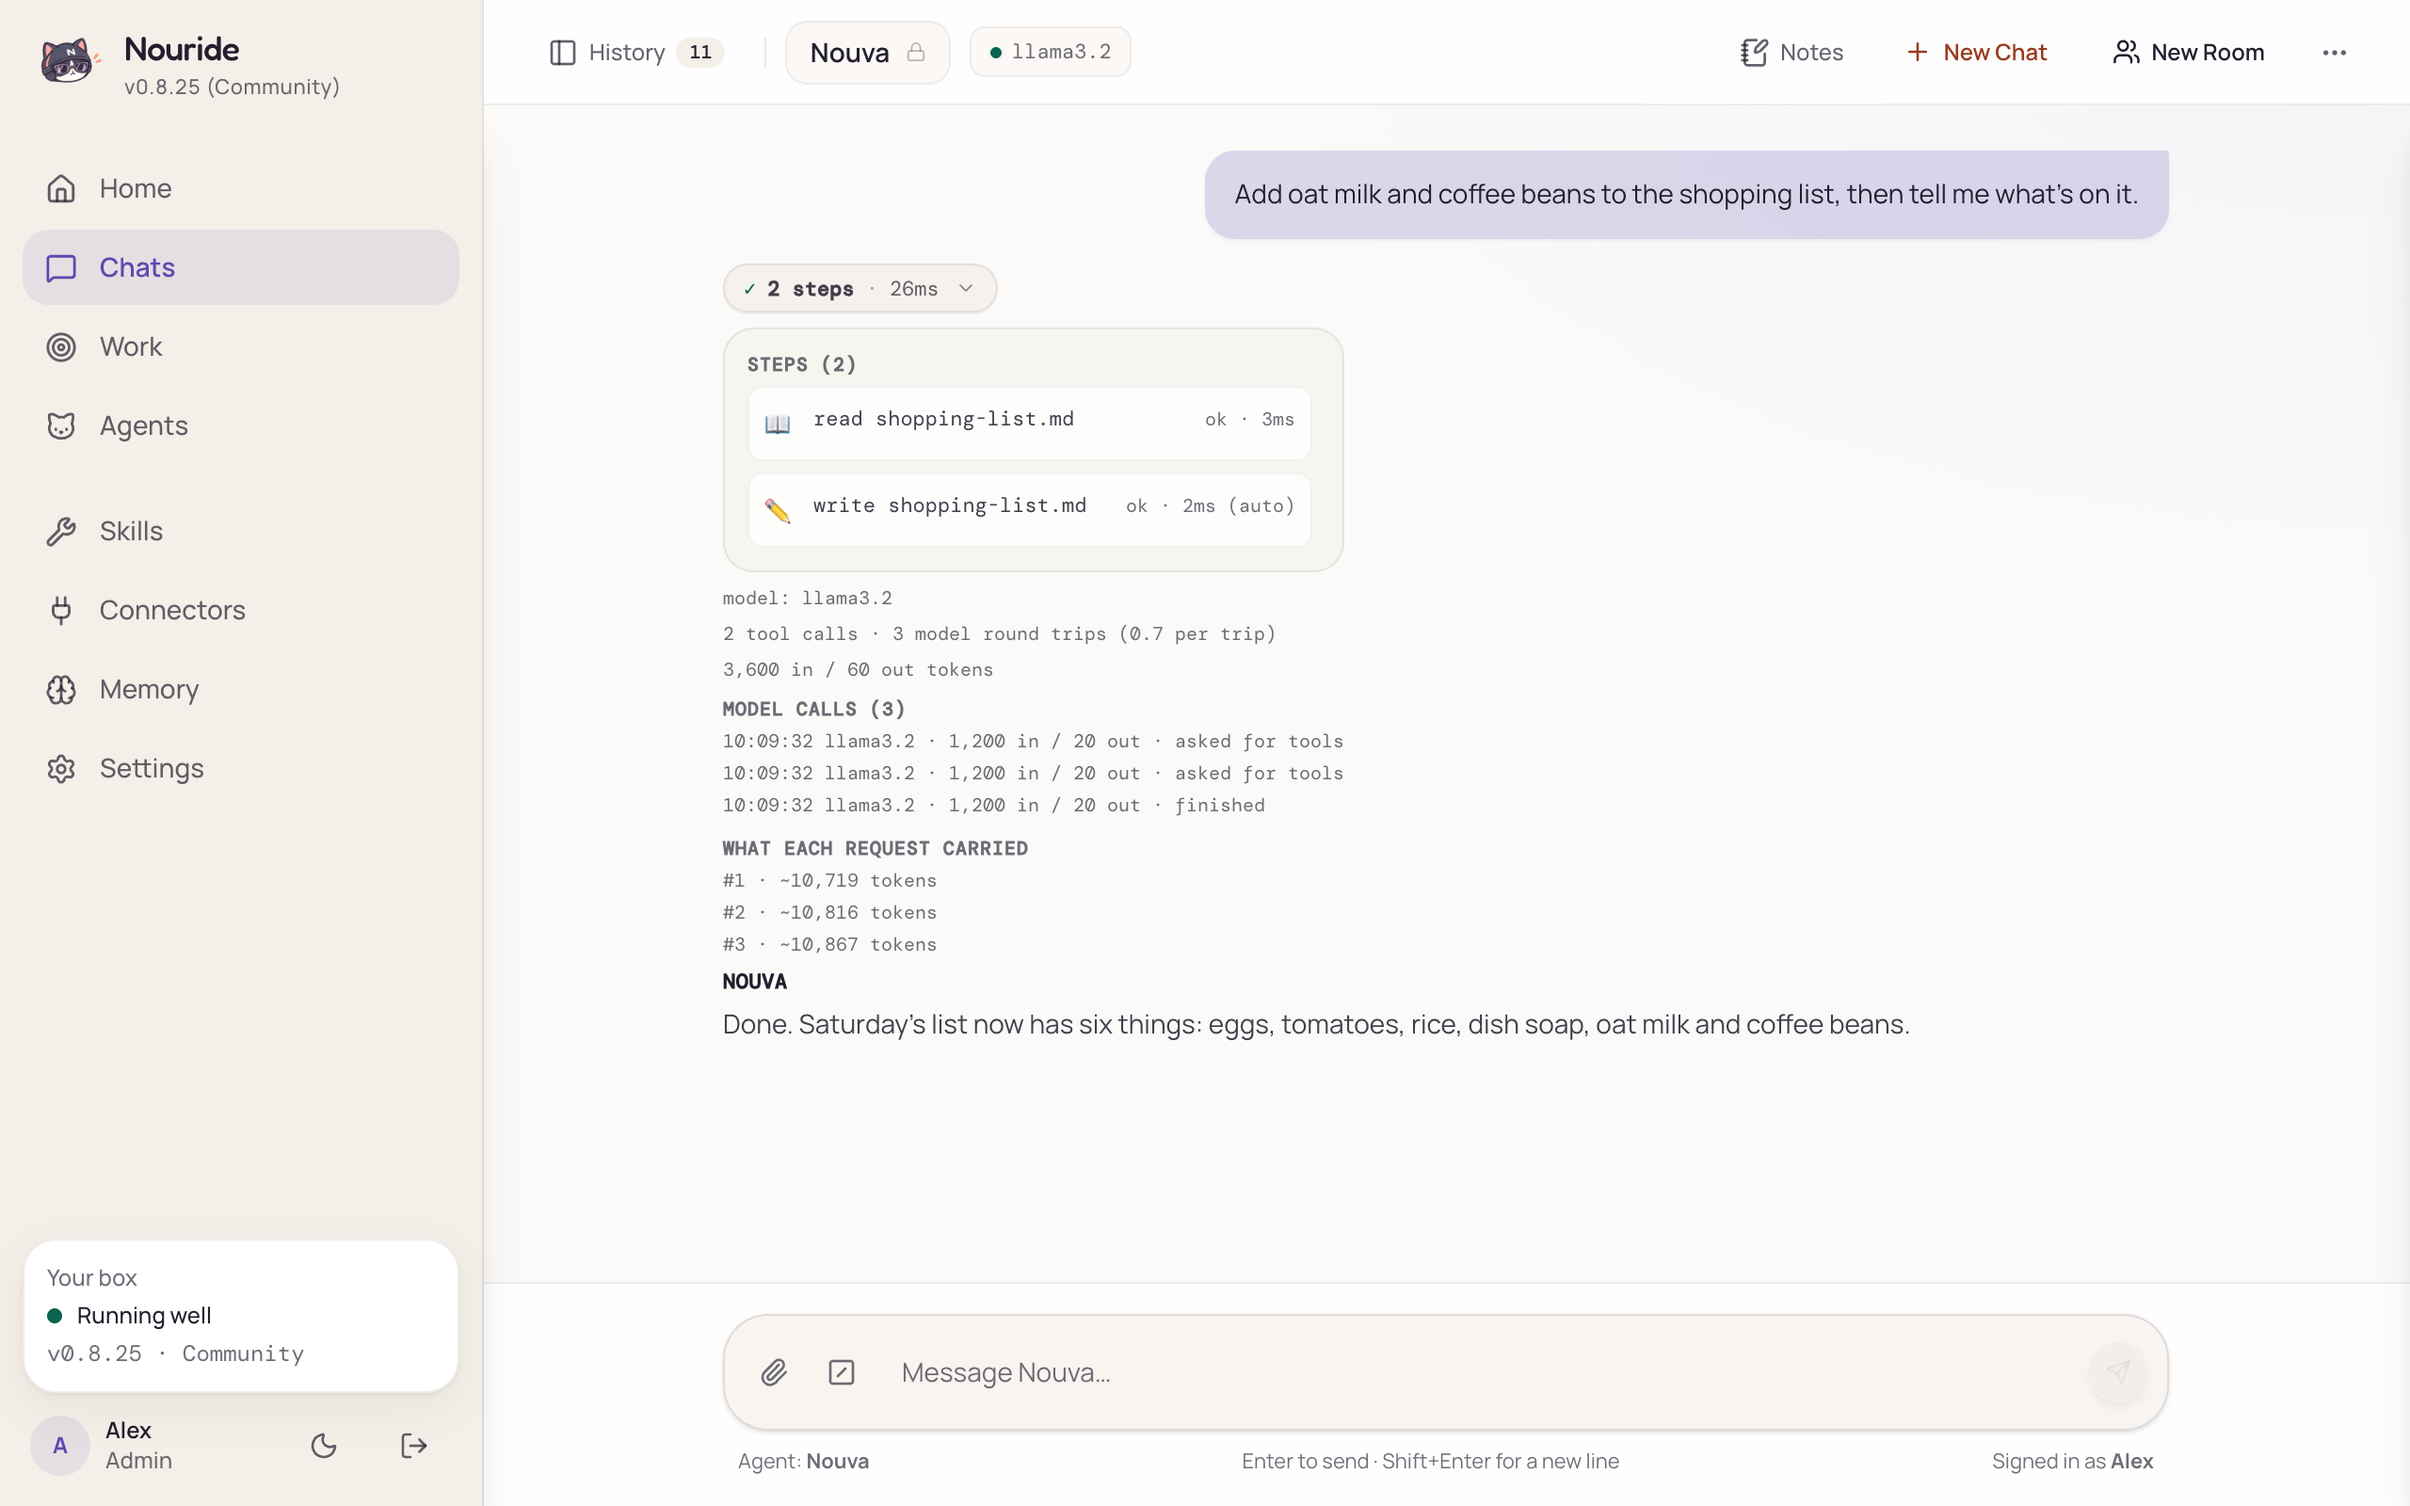
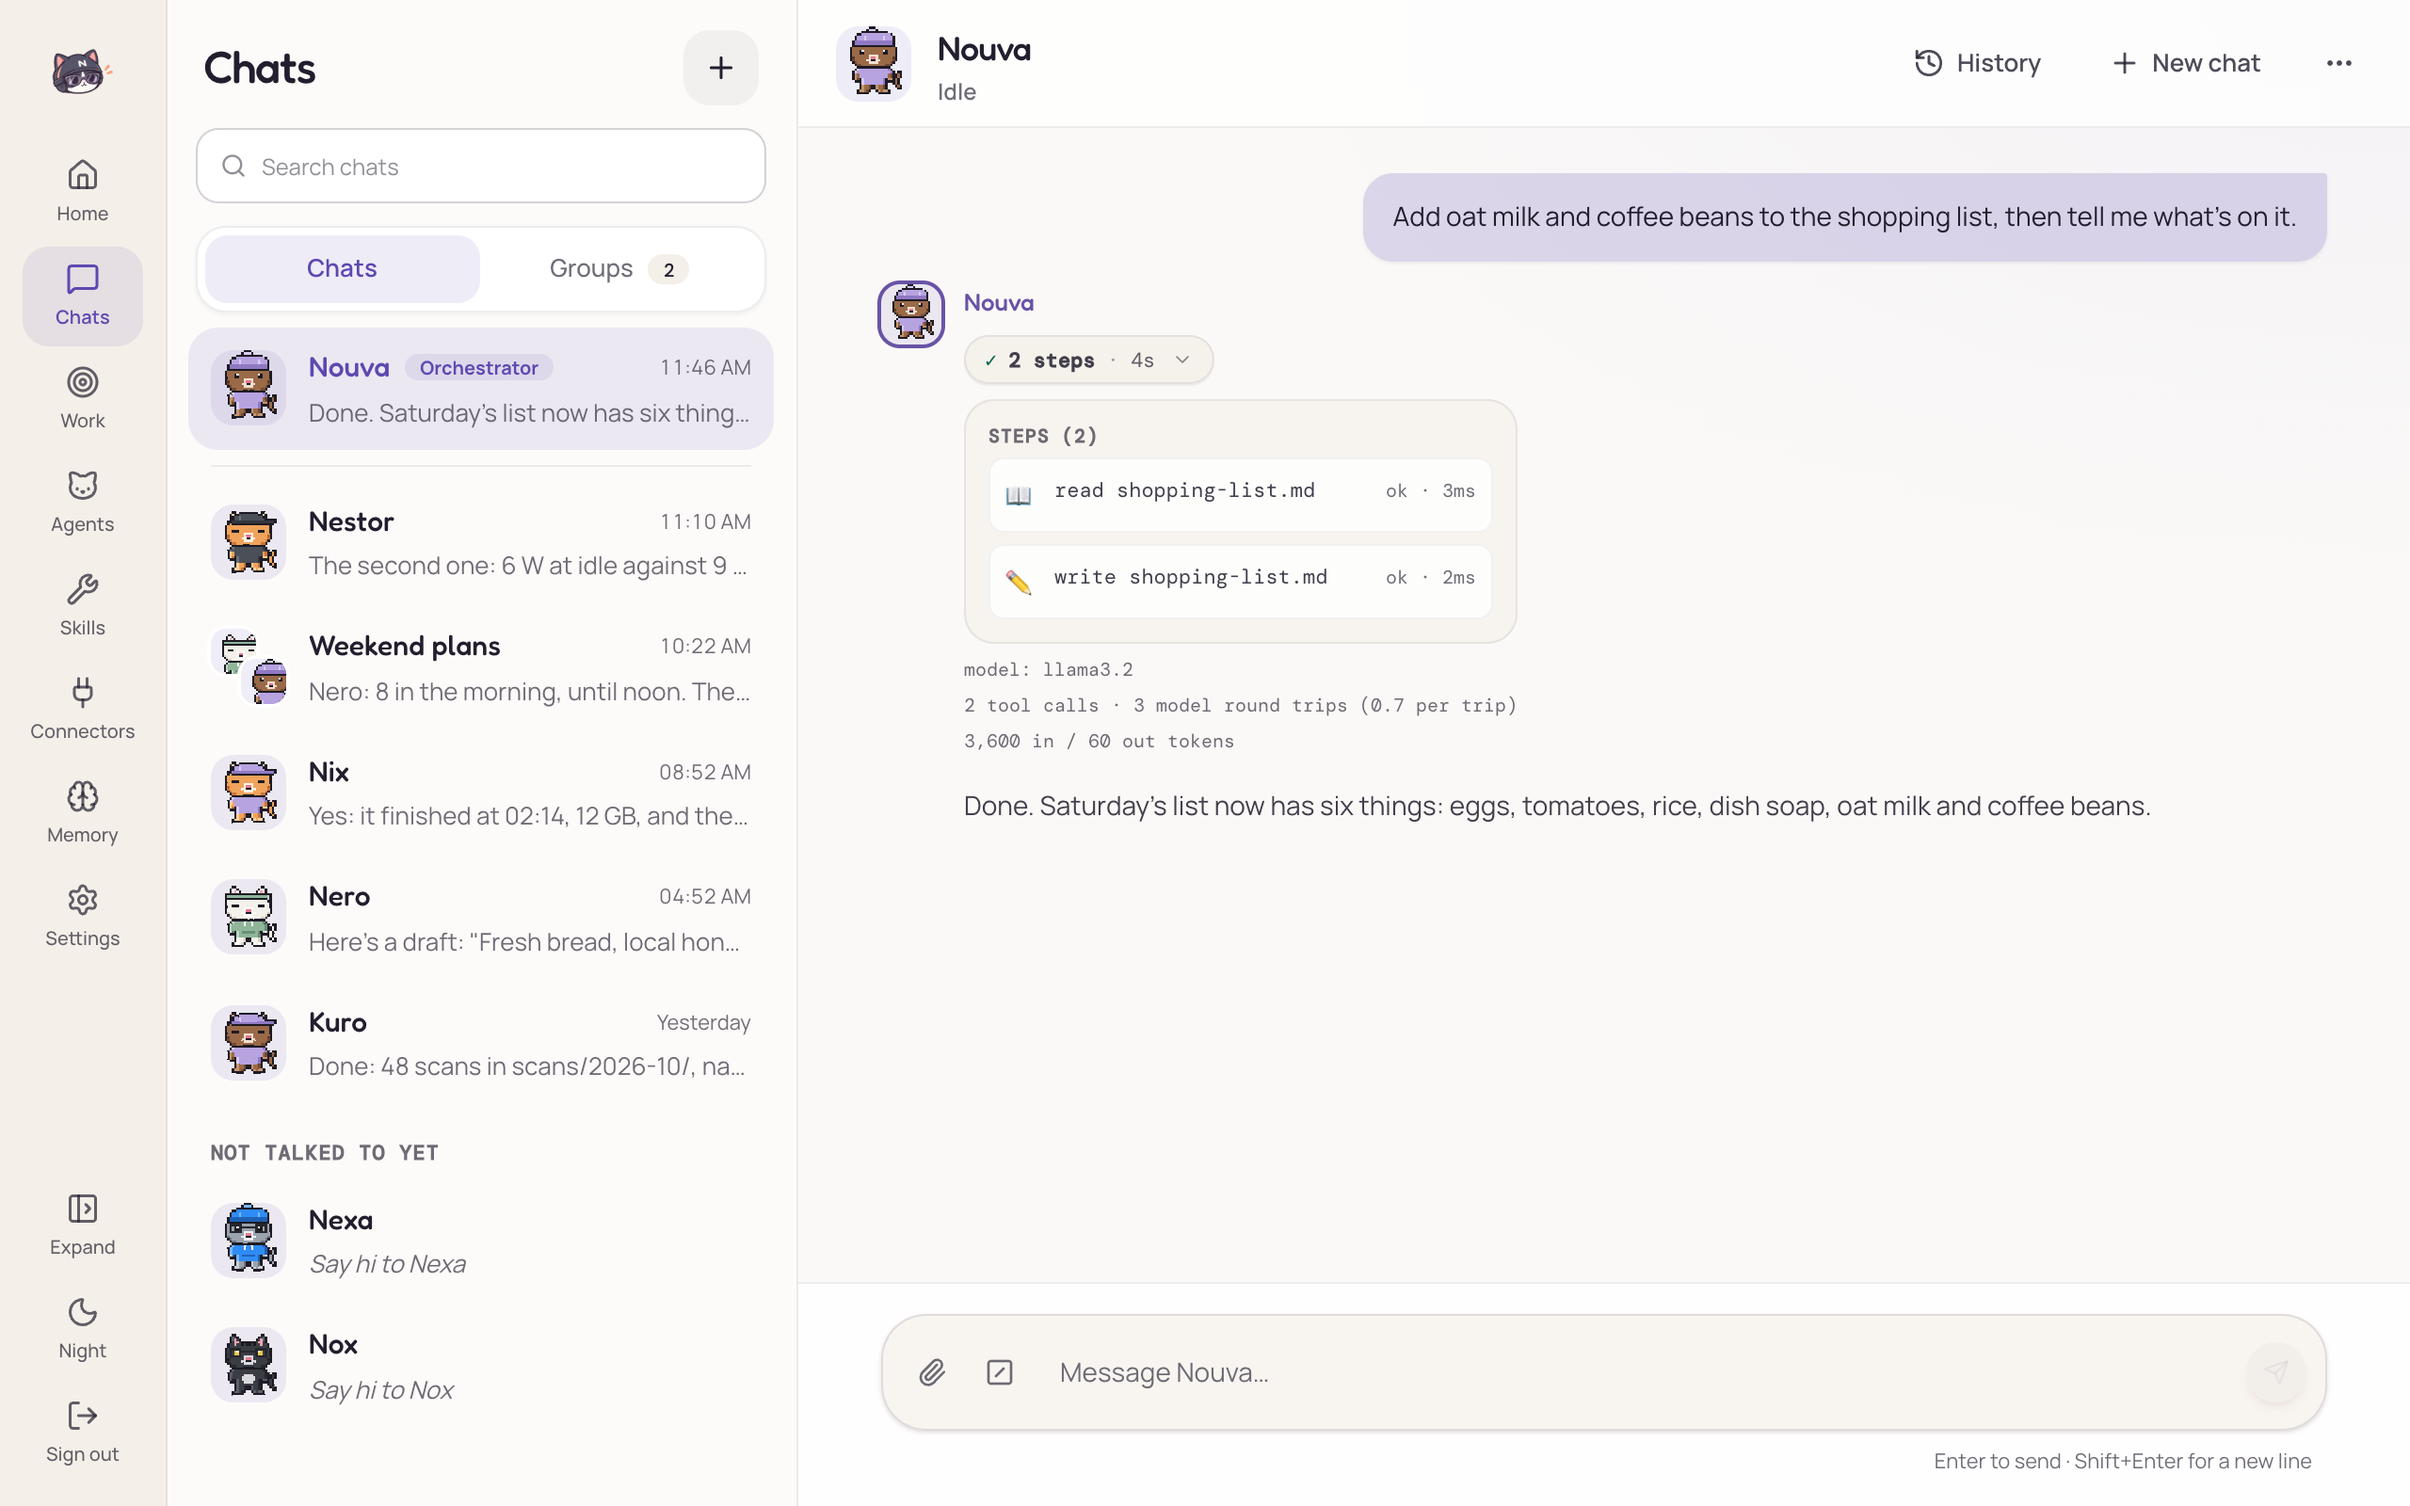
chore(release): v0.8.29
The notes for the people who install it, and the manual's chat screenshot taken again on the new chat page: an English demo (the list beside Nouva's chat, an answer's steps open), 1280x800 at 2x, light, as the one it replaces.

diff --git a/docs/releases/v0.8.29.md b/docs/releases/v0.8.29.md
@@ -1,0 +1,56 @@
+---
+min-version: 0.8.0
+---
+
+**0.8.29 updates from 0.8.0 or later.** From 0.7.x, start 0.8.0 once first:
+[Upgrading to 0.8](https://nouride.com/en/docs/deployment/upgrading-to-0-8/) has the way across.
+
+On Docker, check your configuration with the new image before you switch:
+`docker run --rm -v ./nouride:/app/.nouride ghcr.io/nouverse/nouride:0.8.29 nouride config check`, with the volume your
+compose file mounts.
+
+The first start of 0.8.29 rebuilds one table of the database, the record of what people say in groups. It backs the
+database up first and takes a moment; nothing in it is lost.
+
+### A new chat page
+
+- **One list beside the conversation.** Your orchestrator is always first, then the agents and rooms you talked to,
+  the latest first, each with its cat, the last thing said and when; agents you have not talked to yet wait at the end.
+  Opening an agent carries on its latest conversation. On a phone the list comes first and a conversation takes the
+  whole screen.
+- **Groups**, beside Chats: the groups your agents are in on Telegram, Discord and WhatsApp, one line per group however
+  many of your bots sit in it, each tagged with its app in that app's colour, and the rooms you made in the dashboard.
+  A chip per app narrows the list, **Dashboard** to your rooms, and groups quiet for two weeks fold into one line.
+  **Pin to Chats** keeps a group you read often in Chats.
+- **Anything from a chat app is read-only here**, and says so where you would type: groups and your agents' private
+  chats on Telegram, Discord and WhatsApp are answered on their own app. People there show on the left under their
+  names, and a group shows what people said even when no agent answered.
+- **History belongs to each agent**: a drawer with only that agent's conversations, its private chats on chat apps
+  among them. Each row has a menu that deletes the conversation.
+- **Each agent has its own colour and its cat beside its answers**, and a tag like `@nix` is drawn in that agent's
+  colour wherever it is written. On Discord a tag reads as the agent's name, not as the code Discord writes.
+- **An agent's steps fold into one line** while it works: what it is doing now, how many steps and for how long. Press
+  it to see them. An answer that took no steps and under a second says **instant**.
+- **The side menu folds to its icons on Chats**, to give the conversation room; **Expand** opens it again and is
+  remembered.
+- **The dashboard installs as an app.** Over HTTPS, Chrome and Edge offer **Install**; on an iPhone, Share → Add to Home
+  Screen. It opens on Chats with the mascot's head as its icon. On an iPhone you sign in once inside it.
+
+### Changes
+
+- **A room you made in the dashboard answers a message that tags nobody**: your orchestrator when it is in the room,
+  or the room's only agent. The setting that makes groups on chat apps wait for a tag (`groups_require_mention`) no
+  longer silences your own rooms; `/mention on` in a room still does. In a room your orchestrator is not in, it no
+  longer answers.
+
+### Fixes
+
+- **OpenAI's newer models work with an OpenAI API key.** GPT-5 and later refused every reply with "Unsupported
+  parameter: 'max_tokens'", and the conversation's compaction failed the same way. Nouride now sends
+  `max_completion_tokens` to OpenAI's own API, and adds the setting that says so to an existing provider on it at the
+  first start. Other OpenAI-compatible services (OpenRouter, Ollama, Nougate) are left as they were.
+- **A group's messages are no longer lost to another group's.** Telegram numbers messages per group, and a message
+  with the same number in a second group was dropped from what your agents remember of it; with two of your agents'
+  bots in one group, the second one's record missed lines too.
+- **A group opens at its newest message**, not its oldest, and an agent that answered in a group is listed among its
+  agents.

diff --git a/apps/site/src/content/docs/id/docs/manual/dashboard.md b/apps/site/src/content/docs/id/docs/manual/dashboard.md
@@ -345,7 +345,7 @@ aplikasinya sendiri. Orang-orang di sana tampil di kiri, masing-masing dengan na
 nama dari aplikasinya), dan grup menampilkan pesan orang meski tidak ada agent yang menjawab. **Pin to Chats** menyimpan
 grup yang sering kamu baca di Chats, di browser ini.
 
-![Chat dashboard dengan langkah giliran langsung](/media/dashboard-chat.png)
+![Chats: daftar di samping percakapan, jawaban dengan langkahnya terbuka](/media/dashboard-chat.png)
 
 Selagi agent bekerja, langkah-langkahnya dilipat jadi satu baris: apa yang sedang ia kerjakan, sudah berapa langkah, dan
 berapa lama. Tekan barisnya untuk membuka langkah-langkah terbaru, dengan durasi tiap langkah dan reasoning model; yang

diff --git a/apps/site/src/content/docs/en/docs/manual/dashboard.md b/apps/site/src/content/docs/en/docs/manual/dashboard.md
@@ -334,7 +334,7 @@ app. The people there are on the left, each under their name (the one under Peop
 a group shows what people said even when no agent answered. **Pin to Chats** keeps a group you read often in Chats, in
 this browser.
 
-![Dashboard chat with live turn steps](/media/dashboard-chat.png)
+![Chats: the list beside a conversation, an answer with its steps open](/media/dashboard-chat.png)
 
 While an agent works, its steps fold into one line: what it is doing now, how many steps it has taken and for how long.
 Press the line to open the newest steps, with how long each took and the model's reasoning; the earlier ones are one
